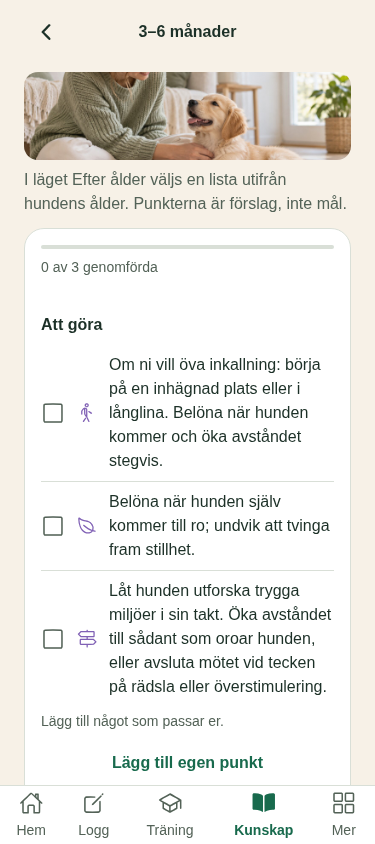
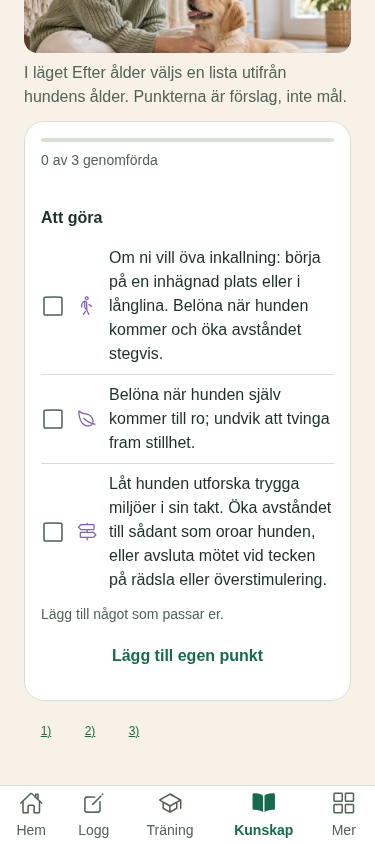
fix: tighten checklist reference spacing

diff --git a/src/features/knowledge/PuppyChecklistScreen.tsx b/src/features/knowledge/PuppyChecklistScreen.tsx
@@ -735,7 +735,7 @@ const styles = StyleSheet.create({
   phaseImageFrame: { alignSelf: 'stretch', height: 88, overflow: 'hidden', borderRadius: tokens.radius.md, marginBottom: tokens.spacing.sm },
   references: { marginTop: tokens.spacing.sm, flexDirection: 'row', alignItems: 'center', gap: tokens.spacing.xs, flexWrap: 'wrap' },
   referenceLinks: { flexDirection: 'row', alignItems: 'center', gap: 0 },
-  referenceLink: { minWidth: tokens.size.touchMin, minHeight: tokens.size.touchMin, alignItems: 'center', justifyContent: 'center', paddingHorizontal: tokens.spacing.xs },
+  referenceLink: { minWidth: tokens.size.touchMin, minHeight: tokens.size.touchMin, alignItems: 'center', justifyContent: 'center' },
   referenceNumber: { ...tokens.typography.smallCaption, color: tokens.colors.primary, textDecorationLine: 'underline' },
   customRow: { gap: tokens.spacing.xs },
   formFieldRow: { flexDirection: 'row', alignItems: 'center', gap: tokens.spacing.sm },

diff --git a/tools/visual-check/verify-know02.py b/tools/visual-check/verify-know02.py
@@ -61,7 +61,7 @@ def check_phase_banner(page, label, phase, width, capture=False):
               f'{phase} reference {index + 1} meets 44pt target at {width}px')
     check(no_horizontal_overflow(page), f'{phase} references have no horizontal overflow at {width}px')
     if capture:
-        screenshot(page, f'checklist-public-phase-bottom-{phase}-{width}.png')
+        screenshot(page, f'checklist-public-phase-bottom-{phase}-{width}.png', reset_scroll=False)
 
 
 def scroll_top(page):
@@ -84,8 +84,9 @@ def no_horizontal_overflow(page):
     }""")
 
 
-def screenshot(page, name):
-    scroll_top(page)
+def screenshot(page, name, reset_scroll=True):
+    if reset_scroll:
+        scroll_top(page)
     page.screenshot(path=str(OUT / name))
 
 
@@ -140,7 +141,7 @@ with sync_playwright() as p:
             footer = page.get_by_role('tab', name='Hem').bounding_box()
             last_reference = links.nth(1).bounding_box()
             check(footer is not None and last_reference is not None and last_reference['y'] + last_reference['height'] <= footer['y'] + 1, f'Numbered references remain above the fixed footer at {width}px')
-            screenshot(page, f'checklist-public-detail-bottom-{width}.png')
+            screenshot(page, f'checklist-public-detail-bottom-{width}.png', reset_scroll=False)
             links.first.click()
             page.wait_for_function('window.__tasslaOpenedSourceUrl !== null', timeout=3000)
             check(page.evaluate('window.__tasslaOpenedSourceUrl') == 'https://www.rspca.org.uk/adviceandwelfare/pets/dogs/health/puppycare', f'Numbered reference opens its exact safe source URL at {width}px')

diff --git a/docs/tasks/dev/KNOWLEDGE-PHASE-CATALOG-01.md b/docs/tasks/dev/KNOWLEDGE-PHASE-CATALOG-01.md
@@ -1,6 +1,6 @@
 # KNOWLEDGE-PHASE-CATALOG-01 — publicerad faschecklistekatalog v1
 
-Planversion: **v8**. V8 applies the owner's latest spacing correction: numbered source links have no additional inter-link gap, while each control retains its 44×44 pt target. All six phase details keep a low banner with the whole dog face visible; sources show only small `1) 2)` marks with no visible label, title or URL. Existing local editorial photos are reused. Generated-SQL parity remains a mandatory preflight: the validator compares both embedded SQL payloads and digest references with the reviewed JSON before either SQL script may be run. Disposable PostgreSQL 16 runtime verification is complete; independent QA and Reviewer remain before closeout.
+Planversion: **v9**. V9 applies the owner's latest spacing feedback: remove the numbered links' extra horizontal padding so adjacent marks sit closer while each control keeps its 44×44 pt target. The RN Web verifier also preserves the scrolled position in bottom screenshots. All six phase details keep a low banner with the whole dog face visible; sources show only small `1) 2)` marks with no visible label, title or URL. Existing local editorial photos are reused. Generated-SQL parity remains a mandatory preflight: the validator compares both embedded SQL payloads and digest references with the reviewed JSON before either SQL script may be run. Disposable PostgreSQL 16 runtime verification is complete; focused QA and frozen Reviewer both passed the spacing update.
 
 ## Uppgiftskontrakt
 
@@ -104,7 +104,7 @@ If review finds a necessary path outside this exact list, pause, add it to a new
 | The catalog adapter performs three RLS-scoped reads: mapped `checklist_templates` → `content_versions` where `status=published` for the mapped `content_item_id`s → `content_version_checklist_items` for those version IDs. It validates exactly six mapped roots, contexts, unique published versions and all 18 expected `(template_id,item_key)` pairs. Empty catalog yields the existing honest empty state; partial/malformed catalog is an error. | Adapter contract tests and disposable SQL publication/read probe. | PASS; live RLS is not implied. |
 | Review cache and public cache remain separate. Public cache identity changes with the sorted set of returned published `content_versions.id`s, and a newly published version cannot reuse stale titles, body, sources or age metadata. | Cache tests cover content-version change and public/review/session/dog scope isolation. | PASS |
 | Each of the six phase detail views has a low decorative image banner at the top, using a per-phase focus over existing local assets; the full dog face is visible and not clipped at the top or sides. It does not become a checklist/progress card or obscure the task. | Render every mapped phase at 375/430px, inspect all six face crops, and verify decorative accessibility state and banner height (target 80–96 pt). | PASS; UI Critic checked all six faces at both widths. |
-| After checklist actions, sources remain directly tappable but compact: show only small numbered marks such as `1) 2)` outside the card, with no visible label, publisher/title rows or URLs. Numbered targets touch edge-to-edge with zero additional gap while remaining visually distinct. Each accessible link name identifies the reviewed source title and publisher; unknown URLs fail closed. Each mark has a minimum 44×44 pt touch target and stays reachable above the fixed footer after scrolling. | Source-metadata lookup tests cover all seven bundle URLs; public render shows only smaller numbered links; UI Critic checks the 0-gap render; scroll every phase at 375/430px and verify the final link stays above navigation; tap a link in the synthetic harness without horizontal overflow. | PASS |
+| After checklist actions, sources remain directly tappable but compact: show only small numbered marks such as `1) 2)` outside the card, with no visible label, publisher/title rows or URLs. Numbered targets sit edge-to-edge without added horizontal padding while remaining visually distinct. Each accessible link name identifies the reviewed source title and publisher; unknown URLs fail closed. Each mark has a minimum 44×44 pt touch target and stays reachable above the fixed footer after scrolling. | Source-metadata lookup tests cover all seven bundle URLs; public render shows only numbered links; rendered link boxes touch edge-to-edge at 375/430px, scroll above navigation and open the exact source without horizontal overflow. | PASS; latest tightened spacing verified in RN Web. |
 | The changed checklist detail is assessed against its existing support-screen contract; behavior/accessibility, UI Critic brief/review, independent QA and Reviewer are recorded separately. | Saved public/review captures and review reports in `docs/design/evidence/knowledge-d3-catalog-v1/`; no claim of native/iPhone validation. | UI Critic, independent QA and frozen Reviewer PASS on the zero-gap adjustment. |
 | App-code changes export successfully for iOS using the repository's review-content build channel. | `TASSLA_BUILD_CHANNEL=review EXPO_PUBLIC_TASSLA_REVIEW_CONTENT=true __UNSAFE_EXPO_HOME_DIRECTORY=/tmp/tassla-expo-home pnpm bundle:ios`. | PASS; JS/assets exported to `dist/ios`; this does not verify signing, installation or device behavior. |
 | Docs, queue and plan distinguish local implementation from any live import/publication or runtime/RLS verification. Exact changed paths match this write list. | `python -X utf8 tools/dev_flow.py validate`; JSON parse; `git diff --check`; final path audit. | PASS; independent QA and frozen Reviewer PASS. |
@@ -121,8 +121,9 @@ Phase intro copy to use: `before_homecoming` — “Förbered det som kan göra 
 
 ## Checkpoint
 
-- Current state: D3 catalog, content review, adapter and numeric source metadata lookup are implemented locally on `knowledge/d3-catalog-delivery`. V5 added low per-phase banners and accessible numbered links. The owner clarified that all six full dog faces must remain visible and source UI must show only small `1) 2)` marks, with no visible “Referenser” label. V8 removes the extra gap between adjacent source controls while preserving their minimum 44×44 pt target.
-- Current UI result: all six faces pass the 375/430 synthetic render checks. The source row contains only small `1)`/`2)` links with no visible label, title or URL; the 0-gap treatment is visually distinct, targets remain 44×44 pt, and long-phase bottom scrolling passes. UI Critic final review is PASS. This is synthetic RN Web evidence, not native/iPhone validation.
+- Current state: D3 catalog, content review, adapter and numeric source metadata lookup are implemented locally on `knowledge/d3-catalog-delivery`. V5 added low per-phase banners and accessible numbered links. The owner clarified that all six full dog faces must remain visible and source UI must show only small `1) 2)` marks, with no visible “Referenser” label. V8 removed the row gap; after the owner asked for closer marks, V9 removed the extra horizontal padding while preserving 44×44 pt targets.
+- Current UI result: all six faces pass the 375/430 synthetic render checks. The source row contains only small `1)`/`2)` links with no visible label, title or URL; link targets now meet edge-to-edge with no added padding, remain 44×44 pt, and long-phase bottom scrolling passes. The verifier now captures bottom screenshots without resetting the scroll position. This is synthetic RN Web evidence, not native/iPhone validation.
+- V9 spot review: independent QA and frozen Reviewer PASS on the updated 375px bottom screenshot, legibility, adjacent 44×44 targets, footer clearance, in-scope paths and queue/plan alignment. Prior v8 UI Critic review remains recorded for the image crops and zero-gap adjustment.
 - Security and Architect initially found the publication script's duplicate `DECLARE`, weak duplicate/missing-row guards and missing SQL-to-JSON parity check. Those findings are corrected; both reviewers gave focused static PASS. The validator now compares each imported field and URL in both SQL payloads with the reviewed JSON and checks the review SHA-256 references. The validator is a required pre-execution step; the SQL scripts do not recompute the JSON digest.
 - Disposable PostgreSQL 16.15 runtime: affected migrations plus existing foundation, puppy-checklist, icon and D3 catalog probes pass; import is idempotent on second run, rejects a mismatched reviewed title, publication passes separately, and the new published-only RLS/owner-data probe rolls back successfully. The container had no network or host ports, used a read-only repository mount and synthetic data. No live Supabase operation occurred.
 - `pnpm check` passes (85 test files); UI verifier 128/128; Dog Expert, Architect, Security, plan Critic, UI Critic, independent QA and frozen Reviewer decisions are recorded.

diff --git a/docs/design/evidence/knowledge-d3-catalog-v1/VERIFICATION.md b/docs/design/evidence/knowledge-d3-catalog-v1/VERIFICATION.md
@@ -2,18 +2,19 @@
 
 Datum: 2026-10-26
 Branch: `knowledge/d3-catalog-delivery`
-Plan: `docs/tasks/dev/KNOWLEDGE-PHASE-CATALOG-01.md` v8
+Plan: `docs/tasks/dev/KNOWLEDGE-PHASE-CATALOG-01.md` v9
 
 ## UI och tillgänglighet
 
-`browser-results.json` innehåller **128 PASS, 0 FAIL och 0 browser page errors** från den senaste lokala React Native Web-körningen. Den kontrollerar alla sex fasdetaljer vid 375 och 430 px: bannerhöjd och laddad bild, horisontell overflow, progressändring/återställning, endast synliga numrerade källänkar, inga synliga referensetiketter/titlar/URL:er, tillgängliga källnamn, 44×44 pt länkmål samt att sista länken kan scrollas ovanför den fasta bottenmenyn. Testflöden täcker också tom katalog, read-error med retry och att en ofullständig katalog inte faller tillbaka till lokala review-fixtures.
+`browser-results.json` innehåller **128 PASS, 0 FAIL och 0 browser page errors** från den senaste lokala React Native Web-körningen. Den kontrollerar alla sex fasdetaljer vid 375 och 430 px: bannerhöjd och laddad bild, horisontell overflow, progressändring/återställning, endast synliga numrerade källänkar, inga synliga referensetiketter/titlar/URL:er, tillgängliga källnamn, 44×44 pt länkmål samt att sista länken kan scrollas ovanför den fasta bottenmenyn. Bottom-fångsten behåller nu den scrollposition där länkarna syns. Testflöden täcker också tom katalog, read-error med retry och att en ofullständig katalog inte faller tillbaka till lokala review-fixtures.
 
-UI Critic gav **PASS** för samtliga sex hundansikten vid 375/430 px och därefter en separat **PASS** för användarens spacing-justering. I den nya 375 px-bilden ligger de understrukna `1)`/`2)` nära varandra men visuellt åtskilda; koden behåller separata 44×44 pt-kontroller och länkarna ligger väl ovanför footern. UI Critic noterade att målytan bekräftas av verifieraren och kodinspektion, inte enbart av skärmbilden.
+UI Critic gav tidigare **PASS** för samtliga sex hundansikten vid 375/430 px och v8:s 0-gap-justering. Efter ägarens senaste önskemål tog v9 bort kontrollernas extra sidpadding: märkena ligger nu kant i kant samtidigt som varje länk behåller minst 44×44 pt. Oberoende QA och frozen Reviewer gav **PASS** på v9:s 375 px-bild: numren är läsbara, länkarna ligger nära varandra och raden lämnar synligt fritt utrymme ovanför footern. UI Critic noterade i sin tidigare granskning att målytan bekräftas av verifieraren och kodinspektion, inte enbart av skärmbilden.
 
 Sparade bilder:
 
 - `checklist-public-375.png` — publicerat katalog-fixtureläge.
-- `checklist-public-detail-375.png` — senaste 0-gap render som UI Critic granskade.
+- `checklist-public-phase-bottom-8_12_weeks-375.png` — uppdaterad vy där länkarna syns efter scrollning.
+- `checklist-public-detail-375.png` — tidigare 0-gap render som UI Critic granskade.
 - `checklist-review-375.png` — separat uttryckligt review-fixtureläge.
 - `browser-results.json` — senaste körresultat och avgränsning.
 - `results.json` — föregående körresultat.
@@ -35,4 +36,4 @@ Disposable PostgreSQL **16.15** kördes isolerat med `--network none`, utan host
 
 Ingen migration, import, publicering, RLS-readback eller annan operation har körts mot live Supabase. Inget nytt användarinnehåll har publicerats. Fjärrstatus är okänd.
 
-Oberoende QA och frozen Reviewer gav **PASS** på v8. Reviewer kontrollerade samtliga 59 ändrade paths mot skrivvägarna, D3-adaptern och SQL-grindarna, README-status, 0-gap-länkarna/44×44 pt-målen och bildbevisen. Native iPhone/TestFlight, VoiceOver/TalkBack och Dynamic Type är inte verifierade av RN Web-evidensen.
+Oberoende QA och frozen Reviewer gav **PASS** på v8 och en fokuserad **PASS** på v9:s ändrade filer, länkmål och uppdaterade scrollade bild. Native iPhone/TestFlight, VoiceOver/TalkBack och Dynamic Type är inte verifierade av RN Web-evidensen.
